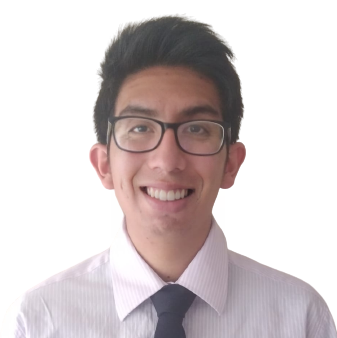
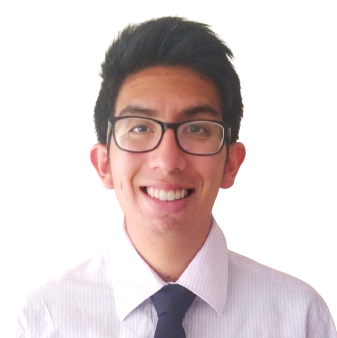
changes

diff --git a/src/components/component/sections.jsx b/src/components/component/sections.jsx
@@ -25,7 +25,7 @@ export function Sections() {
             </div>
           </div>
         </motion.section>
-        <section className="w-full py-40  bg-white text-black flex justify-center">
+        <section className="w-full py-40  bg-white text-black flex justify-center" id="servicios">
           <div className="container grid items-center justify-center gap-4 px-4 text-center md:gap-8 md:px-6">
             <motion.div
               className="space-y-3"
@@ -56,12 +56,12 @@ export function Sections() {
                 />
                 <div className="space-y-2">
                   <h3 className="font-bold tracking-tighter">
-                  Capacitación en Ciberseguridad
+                  Consultoria integral de ciberseguridad
                   </h3>
                   <p className="text-sm text-gray-500 pb-5 ">
-                  Programas de formación adaptados a las necesidades del cliente.
+                  Protección efectiva contra amenazas cibernéticas.
                   </p>
-                  <a href="https://wa.link/hxy9mf" className="bg-blue-iscd hover:bg-blue-700 text-white font-bold py-2 px-4 rounded">¡Asesórate ahora ! </a>
+                  <a href="https://wa.link/8myb6x" className="bg-blue-iscd hover:bg-blue-700 text-white font-bold py-2 px-4 rounded">¡Asesórate ahora ! </a>
                 </div>
               </div>
               <div className="flex flex-col items-center justify-center space-y-2 border border-gray-200 rounded-xl p-4 hover:shadow-lg transition-transform md:translate-y-2 md:scale-105 md:space-y-4 ">
@@ -73,9 +73,10 @@ export function Sections() {
                   width={200}
                 />
                 <div className="space-y-2">
-                  <h3 className="font-bold tracking-tighter">Asignación segura de puertos</h3>
+                  <h3 className="font-bold tracking-tighter">Port assignment & document
+                  </h3>
                   <p className="text-sm text-gray-500 pb-5 ">
-                  Prevención de conflictos en cuanto al rendimiento de la red.
+                  Asignación segura de puertos y documentación detallada de la infraestructura de red
                   </p>
                   <a href="https://wa.link/3qkdmf" className="bg-blue-iscd hover:bg-blue-700 text-white font-bold py-2 px-4 rounded">¡Asesórate ahora ! </a>
                 </div>
@@ -86,16 +87,16 @@ export function Sections() {
                   height={200}
                   alt="Service"
                   className="rounded-full aspect-square overflow-hidden object-cover object-center"
-                  src="/cableado.png"
+                  src="/seguridadintegral.jpg"
                 />
                 <div className="space-y-2">
                   <h3 className="font-bold tracking-tighter">
-                  Cableado estructurado
+                  Seguridad Integral
                   </h3>
                   <p className="text-sm text-gray-500  pb-5">
-                  Diseño e implementación de sistemas de cableado organizados y seguros.
+                  Implementación de soluciones integrales de seguridad.
                   </p>
-                  <a href="https://wa.link/1oayqq" className="bg-blue-iscd hover:bg-blue-700 text-white font-bold py-2 px-4 rounded">¡Asesórate ahora ! </a>
+                  <a href="https://wa.link/t8lu74" className="bg-blue-iscd hover:bg-blue-700 text-white font-bold py-2 px-4 rounded">¡Asesórate ahora ! </a>
                 </div>
               </div>
               <div className="flex flex-col items-center justify-center space-y-2 border border-gray-200 rounded-xl p-4 hover:shadow-lg transition-transform md:translate-y-2 md:scale-105 md:space-y-4 ">
@@ -126,10 +127,10 @@ export function Sections() {
                 />
                 <div className="space-y-2">
                   <h3 className="font-bold tracking-tighter">
-                  Pruebas de Penetración (Pen Testing)
+                  Hacking ético/Análisis de vulnerabilidades
                   </h3>
                   <p className="text-sm text-gray-500 pb-5">
-                  Evaluación de seguridad simulando ataques reales.
+                  Identificar y corregir vulnerabilidades (Sombrero blanco/negro).
                   </p>
                   <a href="https://wa.link/n8qt4i" className="bg-blue-iscd hover:bg-blue-700 text-white font-bold py-2 px-4 rounded">¡Asesórate ahora ! </a>
                 </div>
@@ -144,10 +145,10 @@ export function Sections() {
                 />
                 <div className="space-y-2">
                   <h3 className="font-bold tracking-tighter">
-                  Gestión de Eventos e Incidentes de Seguridad (SIEM)
+                  Diseño e Implementación de TICs
                   </h3>
                   <p className="text-sm text-gray-500 pb-5 ">
-                  Monitoreo en tiempo real para detectar y responder a eventos de seguridad.
+                  Infraestructura robusta, eficiente y segura para soportar las operaciones empresariales.
                   </p>
                   <a href="https://wa.link/5072h3" className="bg-blue-iscd hover:bg-blue-700 text-white font-bold py-2 px-4 rounded">¡Asesórate ahora ! </a>
                 </div>
@@ -157,7 +158,7 @@ export function Sections() {
         </section>
         <section
           className="w-full py-12 md:py-16 lg:py-24 bg-white text-black flex justify-center"
-          id="nosotros"
+          id="equipo"
         >
           <motion.div
             className="container grid items-center justify-center gap-4 px-4 text-center md:gap-8 md:px-6 py-32"
@@ -182,7 +183,7 @@ export function Sections() {
                     height={200}
                     alt="Team member"
                     className="rounded-full aspect-square overflow-hidden object-cover object-center"
-                    src="/Kendryck.webp"
+                    src="/k.jpg"
                   />
                 </div>
                 <div className="space-y-2">

diff --git a/src/components/component/footer.jsx b/src/components/component/footer.jsx
@@ -26,7 +26,7 @@ export function Footer() {
               <li>
                 <a
                   className="text-base text-gray-300 hover:text-white"
-                  href="#"
+                  href="https://wa.link/ic21kp"
                 >
                   +593 98 799 2614
                 </a>
@@ -34,9 +34,9 @@ export function Footer() {
               <li>
                 <a
                   className="text-base text-gray-300 hover:text-white"
-                  href="#"
+                  href="mailto:iscd.ecu@iscd.tech"
                 >
-                  inf.scdev@iscd.tech
+                  iscd.ecu@iscd.tech
                 </a>
               </li>
             </ul>
@@ -54,7 +54,7 @@ export function Footer() {
               >
                 <FacebookIcon className="h-6 w-6" />
               </a>
-              <a className="text-gray-400 hover:text-gray-300" href="#">
+              <a className="text-gray-400 hover:text-gray-300" href="http://www.linkedin.com/in/iscd-ecu-9bab942bb">
                 <LinkedinIcon className="h-6 w-6" />
               </a>
             </div>
@@ -77,6 +77,14 @@ export function Footer() {
                   <li>
                     <a
                       className="text-base text-gray-300 hover:text-white"
+                      href="https://wa.link/3qkdmf"
+                    >
+                      Port assignment & document
+                    </a>
+                  </li>
+                  <li>
+                    <a
+                      className="text-base text-gray-300 hover:text-white"
                       href="https://wa.link/t8lu74"
                     >
                       Seguridad Integral
@@ -85,9 +93,9 @@ export function Footer() {
                   <li>
                     <a
                       className="text-base text-gray-300 hover:text-white"
-                      href="https://wa.link/z8n6ym"
+                      href="https://wa.link/5072h3"
                     >
-                      Help Desk
+                     Diseño e Implementación de TICs
                     </a>
                   </li>
                   <li>
@@ -95,7 +103,23 @@ export function Footer() {
                       className="text-base text-gray-300 hover:text-white"
                       href="https://wa.link/n8qt4i"
                     >
-                      Hacking Etico
+                     Hacking ético/Análisis de vulnerabilidades
+                    </a>
+                  </li>
+                  <li>
+                    <a
+                      className="text-base text-gray-300 hover:text-white"
+                      href="https://wa.link/hxy9mf"
+                    >
+                     Capacitación en Ciberseguridad
+                    </a>
+                  </li>
+                  <li>
+                    <a
+                      className="text-base text-gray-300 hover:text-white"
+                      href="https://wa.link/1oayqq"
+                    >
+                     Cableado estructurado
                     </a>
                   </li>
                 </ul>
@@ -108,7 +132,7 @@ export function Footer() {
                   <li>
                     <a
                       className="text-base text-gray-300 hover:text-white"
-                      href="mailto:inf.scdev@iscd.tech"
+                      href="mailto:iscd.ecu@iscd.tech"
                     >
                       Correo
                     </a>

diff --git a/src/components/component/navbar-responsive.jsx b/src/components/component/navbar-responsive.jsx
@@ -27,26 +27,27 @@ export function NavbarResponsive({ isMenuOpen, closeMenu })  {
         </Link>
         <Link
           className="text-3xl font-bold hover:underline underline-offset-4"
-          href="#servicios"
+          href="#nosotros"
           onClick={closeMenu} 
         >
           <motion.p
           initial={{ opacity: 0, y: 100}}
           whileInView={{ opacity: 1, y: 0}}
           transition={{ duration: 1.4 }}
-          >Servicios</motion.p>
+          >Nosotros</motion.p>
         </Link>
         <Link
           className="text-3xl font-bold hover:underline underline-offset-4"
-          href="#nosotros"
+          href="#servicios"
           onClick={closeMenu} 
         >
            <motion.p
           initial={{ opacity: 0, y: 100}}
           whileInView={{ opacity: 1, y: 0}}
           transition={{ duration: 1.8 }}
-          >Nosotros</motion.p>
+          >Servicios</motion.p>
         </Link>
+        
         <Link
           className="text-3xl font-bold hover:underline underline-offset-4"
           href="#contacto"
@@ -73,9 +74,18 @@ export function NavbarResponsive({ isMenuOpen, closeMenu })  {
       </motion.button>
       <div className="flex flex-col items-start">
         <p className="text-2xl font-bold mb-4">Contacto</p>
-        <div className="text-sm mb-4">inf.scdev@iscd.tech</div>
-        <p className="text-2xl font-bold mb-4">Telefono</p>
-        <div className="text-sm mb-6">+593 98 799 2614</div>
+        <div className="text-sm mb-4">
+          <a href="mailto:iscd.ecu@iscd.tech">
+          iscd.ecu@iscd.tech
+          </a>
+          </div>
+        <p className="text-2xl font-bold mb-4">Teléfono</p>
+        <div className="text-sm mb-6">
+        <a href="https://wa.link/ic21kp">
+          +593 98 799 2614
+          </a>
+          </div>
+          
         <div className="flex space-x-4">
           <a href="https://www.instagram.com/iscd.ecu?igsh=OGQ5ZDc2ODk2ZA%3D%3D&utm_source=qr">
           <InstagramIcon className="text-pink-600" />
@@ -83,7 +93,7 @@ export function NavbarResponsive({ isMenuOpen, closeMenu })  {
           <a href="https://www.facebook.com/iscd.ecu?mibextid=JRoKGi">
           <FacebookIcon className="text-blue-700" />
           </a>
-          <a href="">
+          <a href="http://www.linkedin.com/in/iscd-ecu-9bab942bb">
           <LinkedinIcon className="text-blue-600" />
           </a>
 

diff --git a/src/components/component/services.jsx b/src/components/component/services.jsx
@@ -15,7 +15,7 @@ export function Services() {
     <>
       <section
         className="w-full pt-12 md:pt-20 lg:pt-20 text-black bg-white pb-40"
-        id="inicio"
+        id="nosotros"
       >
         <div className="container space-y-12 px-4 md:px-6">
           <div className="grid items-center gap-6 lg:grid-cols-[600px_1fr] lg:gap-12 xl:grid-cols-[700px_1fr]">
@@ -33,7 +33,7 @@ export function Services() {
                   Sobre Nosotros
                 </h2>
                 <p className="max-w-[600px] text-gray-500 md:text-base/relaxed lg:text-base/relaxed xl:text-base/relaxed">
-                Somos ISCD, una empresa fundada en 2022 por un grupo de especialistas tecnológicos. Nuestra misión es identificar y fortalecer la seguridad y defensa cibernética de las pequeñas y medianas empresas de Quito, Ecuador. Ofrecemos soluciones integrales de ciberseguridad, mediante servicios profesionales de hacking ético, consultoría de infraestructura tecnológica y port assignment personalizado. Hemos trabajado con empresas de diferentes sectores, protegiendo sus sistemas y datos de posibles ataques cibernéticos. Así, mejoramos su rendimiento, eficiencia y confianza.
+                ISCD (Information Security Consulting Development) surgió en 2022 como respuesta a la creciente necesidad de soluciones integrales y especializadas en ciberseguridad en un entorno digital en constante cambio y cada vez más vulnerable. Fundada por un grupo de especialistas tecnológicos, nuestro propósito es fortalecer la seguridad y defensa cibernética de las pequeñas y medianas empresas de Quito, Ecuador mediante servicios personalizados de ciberseguridad, con el fin de proteger sus sistemas y datos de posibles ataques cibernéticos, mejorando así su rendimiento, eficiencia y confianza.
                 </p>
               </div>
             </motion.div>
@@ -115,7 +115,7 @@ export function Services() {
         ></video>
         <section
           className="w-full pt-12 md:pt-24 lg:pt-32 text-black bg-white pb-10 z-30 flex justify-center"
-          id="servicios"
+       
         >
           <div className="container space-y-12 px-4 md:px-6">
             <div className="grid items-center gap-6 lg:grid-cols-[600px_1fr] lg:gap-12 xl:grid-cols-[700px_1fr]">

diff --git a/src/components/component/navbar.jsx b/src/components/component/navbar.jsx
@@ -60,9 +60,9 @@ export function Navbar() {
           </Link>
           <Link
             className="flex items-center gap-1.5 linkeffect"
-            href="#servicios"
+            href="#nosotros"
           >
-            Servicios
+            Nosotros
           </Link>
           <Link className="flex items-center gap-1.5 " href="#">
             <Image src="/Logo1.svg" alt="ISCD" 
@@ -73,10 +73,15 @@ export function Navbar() {
           </Link>
           <Link
             className="flex items-center gap-1.5 linkeffect"
-            href="#nosotros"
+            href="#servicios"
           >
-            Nosotros
+            Servicios
           </Link>
+        {/* <Link className="flex items-center gap-1.5 linkeffect" href="#contacto">
+            Equipo
+          </Link> */}
+
+
           <Link
             className="flex items-center gap-1.5 linkeffect"
             href="#contacto"

diff --git a/src/components/component/hero-section.jsx b/src/components/component/hero-section.jsx
@@ -5,7 +5,7 @@ import Link from "next/link";
 
 export function HeroSection() {
   return (
-    <div className="h-screen">
+    <div className="h-screen" id="inicio">
       <section className="flex justify-center overlay h-full items-center">
         <div className="container px-4 space-y-10 text-center md:space-y-16 lg:space-y-20">
           <div className=" space-y-20">
